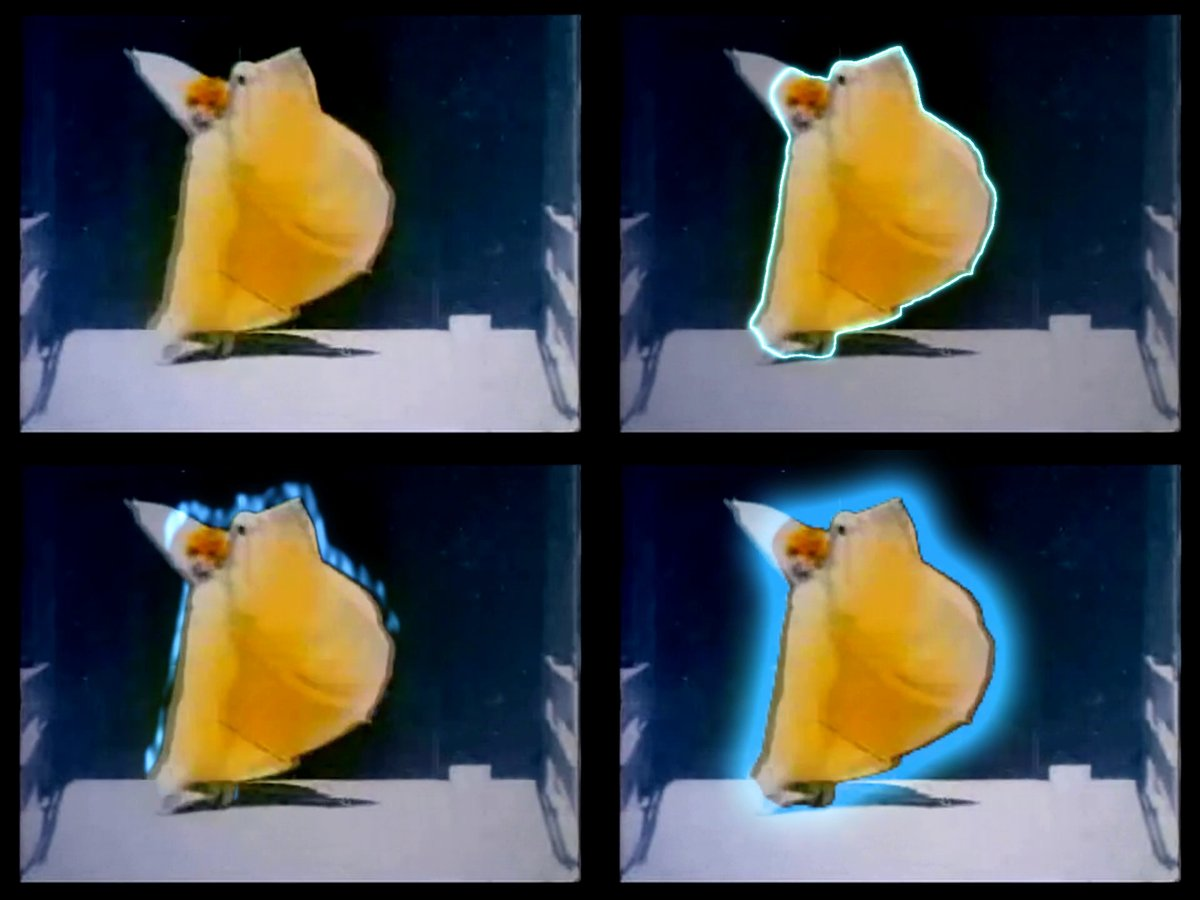
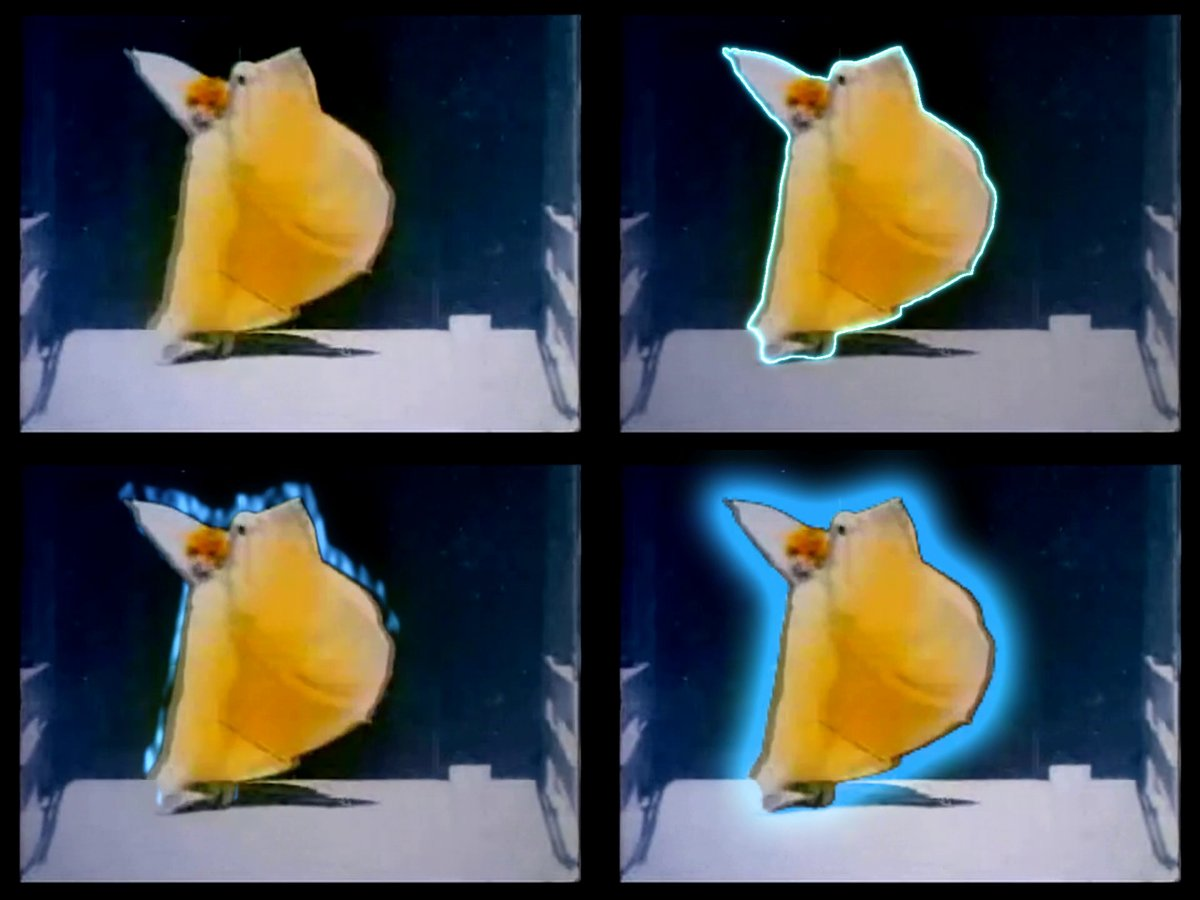
focalcut post: effects figure with the full cutout, and the mask bug it found
Claude-Session: https://claude.ai/code/session_01UdycNf6Tm6ML4ej62NPqKA

diff --git a/_posts/2026-11-4-focalcut.md b/_posts/2026-11-4-focalcut.md
@@ -6,6 +6,7 @@ excerpt: "A festival shoot leaves hours of footage of people dancing, and a reel
 image: /images/blog/focalcut.jpg
 image_alt: A MilkDrop light-show frame, a green and red kaleidoscopic mandala on a dark teal ground, from focalcut's audio-reactive overlay
 date: 2026-11-04
+last_modified_at: 2026-11-04
 categories: [open-source, ai]
 tags: [video, video-editing, dance, recap-reel, beat-sync, premiere, davinci-resolve, opentimelineio, sam3, milkdrop, projectm, ffmpeg, claude-code, ai]
 ---
@@ -116,7 +117,9 @@ focalcut fx apply clip.mp4 -e neon --peak 3.0
 focalcut fx gallery clip.mp4          # every effect side by side
 ```
 
-![Four frames of the same moment of the 1895 Serpentine Dance: untouched, with a neon outline traced around the dancer's skirt, with a blue aura flickering off its edge, and with a soft blue glow around the whole figure.](/images/blog/focalcut-effects.jpg)
+![Four frames of the same moment of the 1895 Serpentine Dance: untouched, with a neon outline traced around the dancer, the wing on its wand included, with a blue aura flickering off her edge, and with a soft blue glow around the whole figure.](/images/blog/focalcut-effects.jpg)
+
+This film found a bug. SAM 3's "person" mask stops at the arm, and the effect edge was clipped to it, so the white wing she holds out on a wand fell outside the outline and glow. The edge now comes from BiRefNet's matte wherever it stays joined to the dancer, which also keeps a flung-out skirt or a fan inside the effect.
 
 A reel uses one subject effect, on the drop. The style libraries (glitch, carnival and EDM looks) carry each film's transitions, accents and light show as one choice in reel.json.
 
